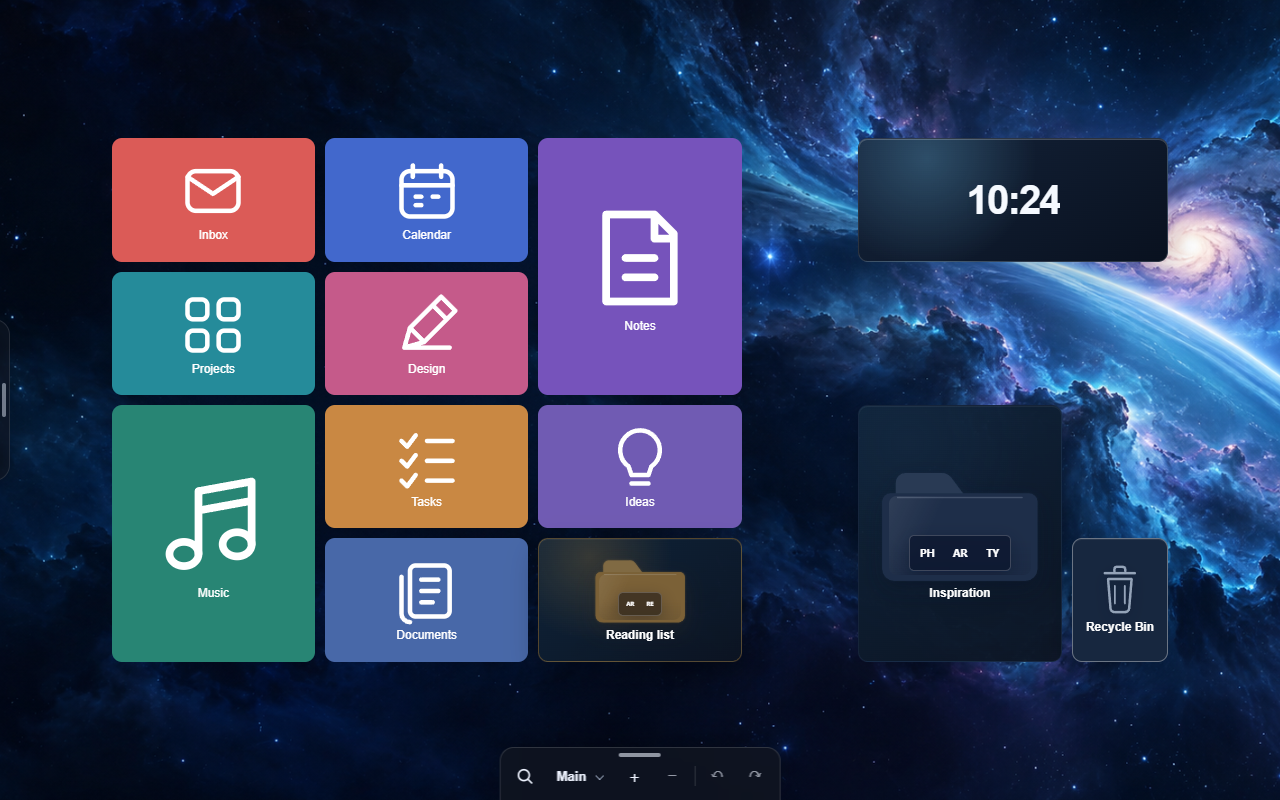
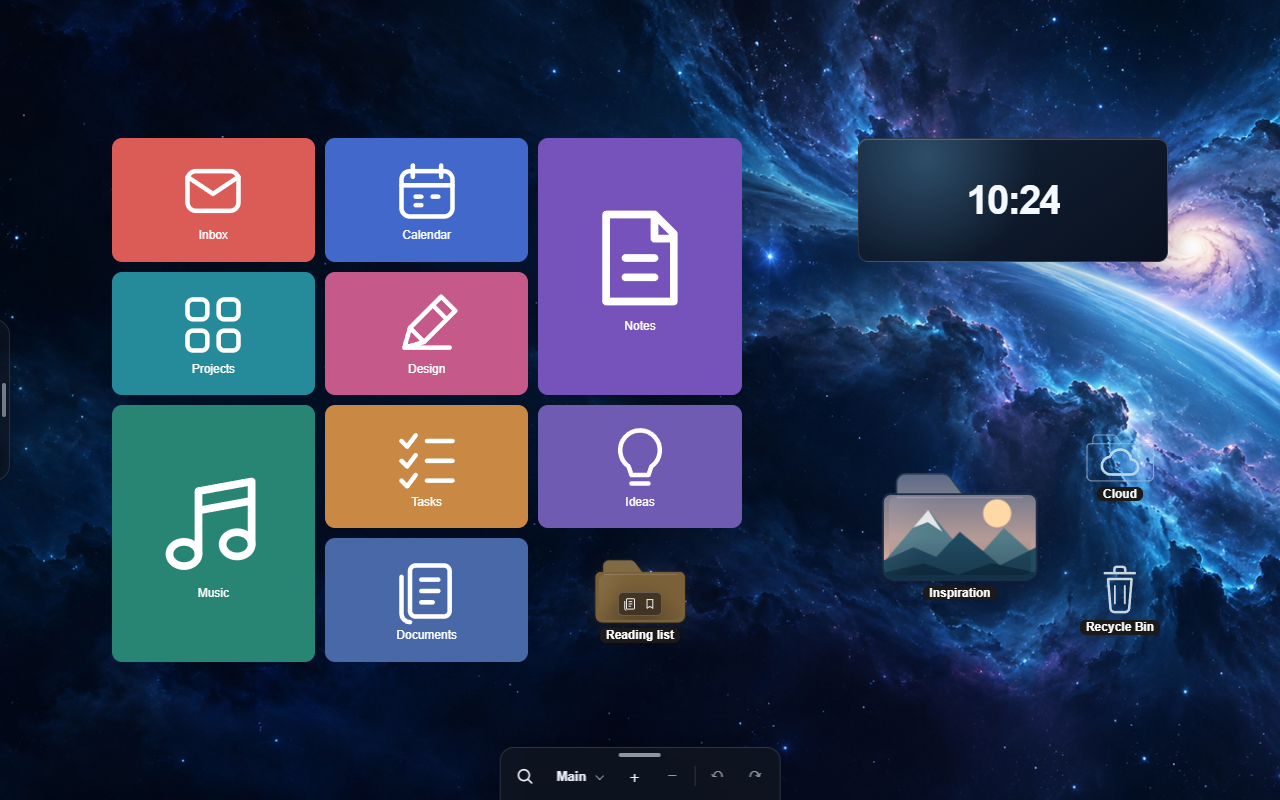
docs(store): showcase personalized folders in listing images

Changed region(s): [[0.6562, 0.5, 0.9375, 0.8438], [0.4062, 0.6562, 0.5, 0.7812], [0.5312, 0.75, 0.5625, 0.7812]]

diff --git a/docs/CHROME_WEB_STORE.md b/docs/CHROME_WEB_STORE.md
@@ -106,19 +106,29 @@ not executed as code.
 Match the dashboard's current data-category checkboxes to these statements and
 to `PRIVACY.md`; do not claim that locally processed data is outside the policy.
 
-## Required listing images
+## Listing images
 
 - `assets/icons/icon-128.png` (product logo)
 - `assets/store/screenshot-1280x800.png`
+- `assets/store/screenshot-folder-1280x800.png`
 - `assets/store/screenshot-settings-1280x800.png`
 - `assets/store/screenshot-information-1280x800.png`
 - `assets/store/promo-small-440x280.png`
+
+The four screenshots are 1280×800. The overview shows a folder with a custom
+local image, a transparent folder with a cloud symbol, and a folder with bookmark
+previews. The folder editor screenshot shows the image controls and live preview.
 
 Regenerate them from the current UI with:
 
 ```sh
 npm run assets:store
 ```
+
+Use `npm run assets:store -- --screens-only` to refresh screenshots and the
+promotional tile without regenerating the brand icons, or `--main-only` to
+refresh just the overview. The captures use the real interface with local demo
+data and no external image requests.
 
 The globe-and-plus logo comes from `assets/icons/brand-mark.svg`. The same command
 regenerates the transparent 48px and 128px extension icons, the 512px PNG/WebP

diff --git a/README.md b/README.md
@@ -439,8 +439,11 @@ Create the Store ZIP with `npm run package:store` (Python 3 required). It includ
 runtime code, locales, icons and license, and excludes development dependencies,
 tests and demo media.
 
-Generate the required Chrome Web Store screenshot and small promotional tile
+Generate the Chrome Web Store screenshots and small promotional tile
 with `npm run assets:store`. The versioned files are written to `assets/store/`.
+The screenshots cover the workspace, custom folder images, Settings and
+Information. Add `-- --screens-only` to keep the existing brand icons, or
+`-- --main-only` to refresh just the workspace overview.
 The public [privacy policy](PRIVACY.md) is included in the release ZIP and can be
 used as the policy URL from the repository's public GitHub page.
 See the complete [Chrome Web Store submission guide](docs/CHROME_WEB_STORE.md)
